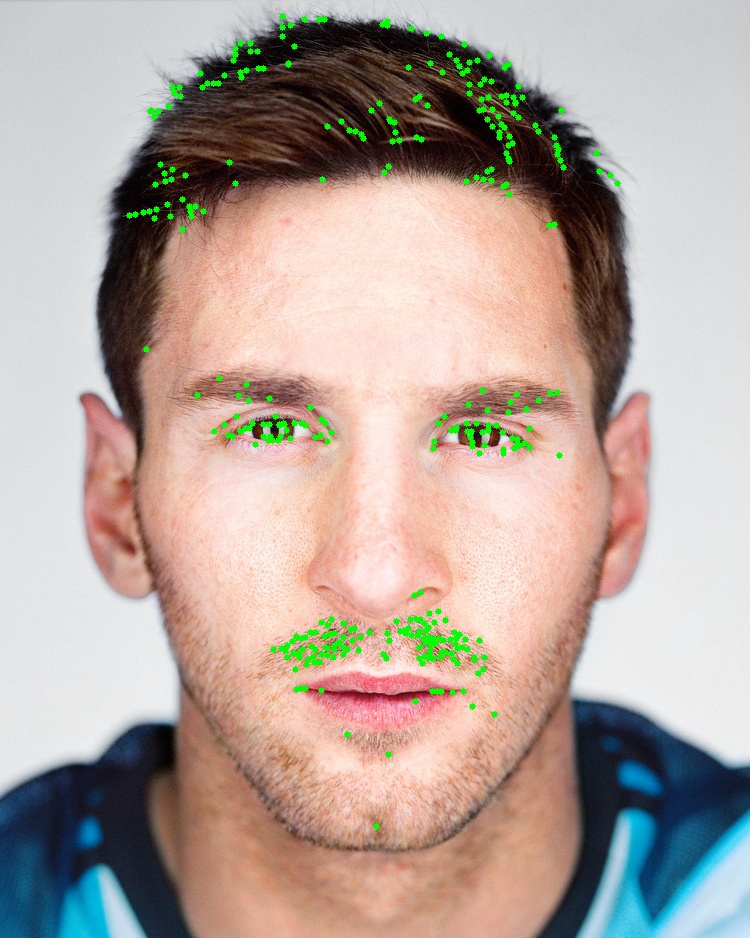
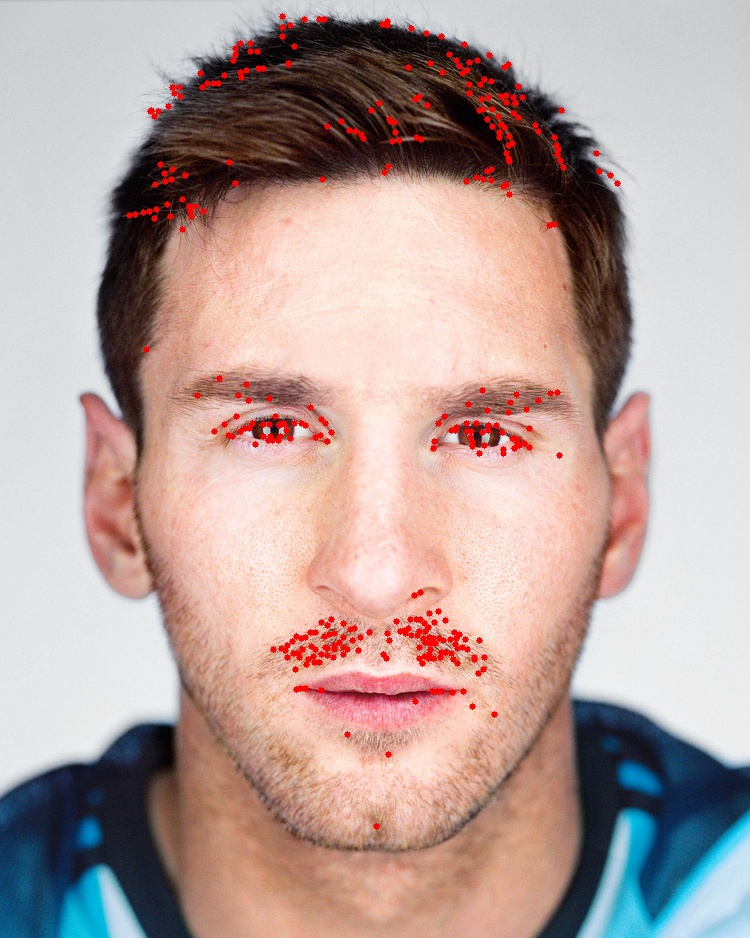
Add files via upload

diff --git a/src/main.cpp b/src/main.cpp
@@ -2,6 +2,7 @@
 #include "my_corners.h"
 #include "ocv_orb.h"
 #include "ocv_sift.h"
+#include "my_sift.h"
 #include <opencv2/opencv.hpp>
 #include <iostream>
 #include <chrono> 
@@ -61,11 +62,11 @@ int main() {
     Mat dst2 = imgCorners2_2.clone();
 
     for (size_t i = 0; i < corners1_2.size(); i++) {
-        circle(dst1, corners1_2[i].pt, 3, Scalar(0, 255, 0), FILLED);
+        circle(dst1, corners1_2[i].pt, 3, Scalar(0, 0, 255), FILLED);
     }
 
     for (size_t i = 0; i < corners2_2.size(); i++) {
-        circle(dst2, corners2_2[i].pt, 3, Scalar(0, 255, 0), FILLED);
+        circle(dst2, corners2_2[i].pt, 3, Scalar(0, 0, 255), FILLED);
     }
 
     // Salviamo le immagini con i corner disegnati
@@ -75,7 +76,20 @@ int main() {
     auto duration2 = duration_cast<milliseconds>(stop - start);
     cout << "Tempo di esecuzione per Shi-Tomasi reimplementato da me: " << duration2.count() << " ms" << endl;
 
-    cout << "Immagini con i corner Shi-Tomasi salvate.\n" << endl;
+    cout << "Immagini con i corner Shi-Tomasi salvate." << endl;
+
+    // Sovrapposizione delle immagini
+    Mat img1 = imread("output/ocv_shi1.jpg");
+    Mat img2 = imread("output/my_shi1.jpg");
+
+    // Sovrapponi le immagini
+    Mat result1;
+    addWeighted(img1, 0.5, img2, 0.5, 0, result1);
+
+    // Salva il risultato della sovrapposizione
+    imwrite("output/sovrapposizione_shi1.jpg", result1);
+
+    cout << "Immagini sovrapposte salvate.\n" << endl;
 
     start = high_resolution_clock::now();
     Mat imgFAST1 = imgCV1.clone();
@@ -111,11 +125,11 @@ int main() {
     Mat dst4 = imgCorners2_3.clone();
 
     for (size_t i = 0; i < corners1_3.size(); i++) {
-        circle(dst3, corners1_3[i].pt, 3, Scalar(0, 255, 0), FILLED);
+        circle(dst3, corners1_3[i].pt, 3, Scalar(0, 0, 255), FILLED);
     }
 
     for (size_t i = 0; i < corners2_3.size(); i++) {
-        circle(dst4, corners2_3[i].pt, 3, Scalar(0, 255, 0), FILLED);
+        circle(dst4, corners2_3[i].pt, 3, Scalar(0, 0, 255), FILLED);
     }
 
     // Salviamo le immagini con i corner FAST disegnati
@@ -126,6 +140,19 @@ int main() {
     cout << "Tempo di esecuzione per FAST reimplementato da me: " << duration4.count() << " ms" << endl;
 
     cout << "Immagini con i corner FAST salvate." << endl;
+
+    // Sovrapposizione delle immagini
+    Mat img3 = imread("output/ocv_fast1.jpg");
+    Mat img4 = imread("output/my_fast1.jpg");
+
+    // Sovrapponi le immagini
+    Mat result2;
+    addWeighted(img3, 0.5, img4, 0.5, 0, result2);
+
+    // Salva il risultato della sovrapposizione
+    imwrite("output/sovrapposizione_fast1.jpg", result2);
+
+    cout << "Immagini sovrapposte salvate.\n" << endl;
 
     // Parte Descriptor Matching
     cout << "\n- Parte Descriptor Matching (ORB, SIFT):" << endl;

diff --git a/src/my_sift.cpp b/src/my_sift.cpp
@@ -1,0 +1,10 @@
+#include "my_sift.h"
+#include <opencv2/opencv.hpp>
+#include <vector>
+#include <cmath>
+#include <iostream>
+
+using namespace cv;
+using namespace std;
+
+

diff --git a/src/my_sift.h b/src/my_sift.h
@@ -1,0 +1,12 @@
+#ifndef MY_SIFT_H
+#define MY_SIFT_H
+
+#include <opencv2/opencv.hpp>
+#include <vector>
+
+using namespace cv;
+using namespace std;
+
+
+
+#endif
